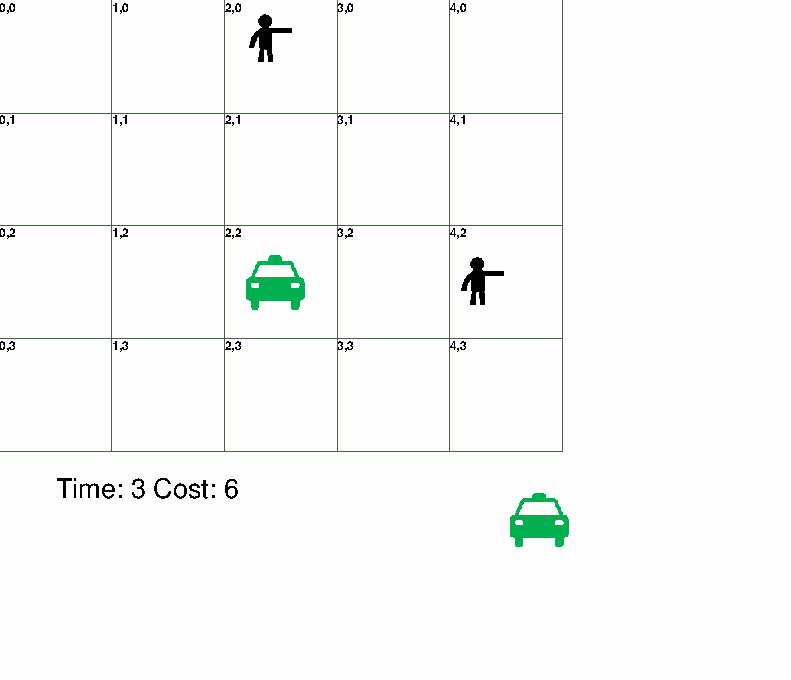
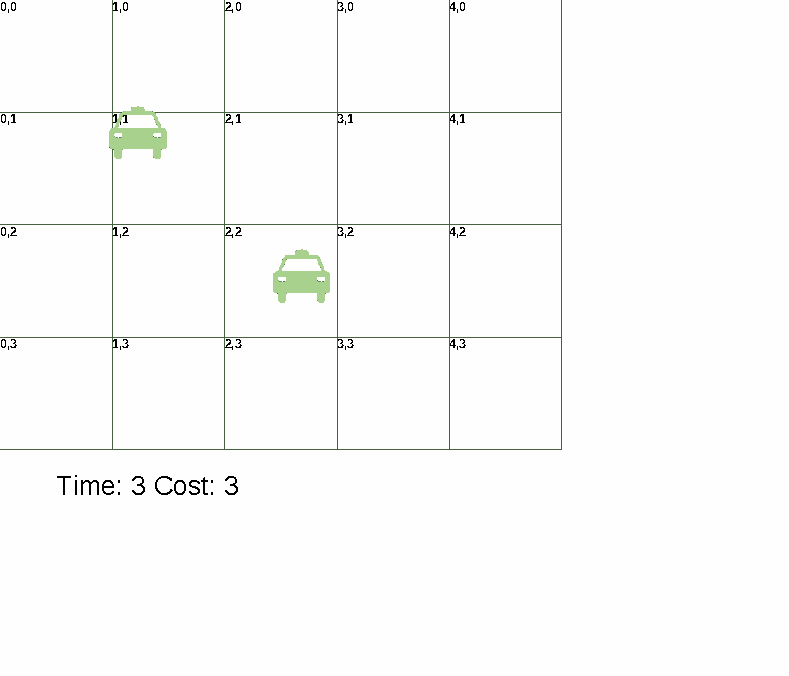
Maybe finished 4?

diff --git a/PSET4/hw4_skeleton/src/base_policy.py b/PSET4/hw4_skeleton/src/base_policy.py
@@ -23,46 +23,58 @@ class base_policy:
         elif horizontal < 0: 
             dir = 1
         elif vertical > 0:
-            dir = 3
-        elif vertical < 0:
             dir = 4
+        elif vertical < 0:
+            dir = 3
         else:
             dir = 0 
         ################################# End your code ###############################
+
         return dir
 
     def get_base_policy_control_component(self, taxi_state_object, ell):
-        control_component = None
+        control_component = 0
         # If a request's pickup location is the same as agent ell's location and the taxi is availble, return the 5+index of the request in the outstanding_requests list
         # Else if the taxi is available, return the direction of motion using the taxi ell's location and the nearest request's pickup location
         ################################# Begin your code ###############################
 
-        # ell is the index of the agent to be used in the list: agent_locations
-        ell_location = taxi_state_object.agent_locations[ell]
+        # Create variable for the index of the agent to be used in the list: agent_locations
+        ell_loc = taxi_state_object.agent_locations[ell]
+        # Create variable for time left in ell's ride and determine whether ell is available
+        time_left = taxi_state_object.time_left_in_current_trip[ell]
+        print("TIME LEFT: " + str(time_left))
+        ell_avail = True if time_left == 0 else False
 
-        manhattan_distance_lst = []
-        # print("Agent location: " + str(ell_location))
-        for count, req in enumerate(taxi_state_object.outstanding_requests):
-            pickup_location = [req[0], req[1]]
-            # print(str(count) + "th pickup location: " + str(pickup_location))
-            if ell_location == pickup_location: 
-                control_component = count + 5
-                return control_component
-            else:
-                dist = taxi_state_object.g.manhattan_distance(ell_location, pickup_location)
-                # print("dist: " + str(dist))
-                manhattan_distance_lst.append(dist)
+        if ell_avail:
+            # Create list to save Manhattan distances
+            manhattan_dists = []
 
-        print(manhattan_distance_lst)
-        if manhattan_distance_lst:
-            m = manhattan_distance_lst.index(min(manhattan_distance_lst))
-            # print("m: " + str(m))
-            nearest_req = taxi_state_object.outstanding_requests[m]
+            # Consider all outstanding requests
+            for idx, req in enumerate(taxi_state_object.outstanding_requests):
+                pickup_loc = [req[0], req[1]]
+                # print(str(count) + "th pickup location: " + str(pickup_location))
+                if ell_loc == pickup_loc:
+                    # Pickup request in ell's current location
+                    control_component = 5 + idx
+                    print("PICKIGN UP")
+                    return control_component
+                else:
+                    # Add Manhattan distance to list for future control determination
+                    dist = taxi_state_object.g.manhattan_distance(ell_loc, pickup_loc)
+                    # print("dist: " + str(dist))
+                    manhattan_dists.append(dist)
+            
+            print(manhattan_dists)
+            if manhattan_dists:
+                # Find which request is closest (index of minimum distance)
+                min_idx = manhattan_dists.index(min(manhattan_dists))
+                # print("m: " + str(m))
+                nearest_req = taxi_state_object.outstanding_requests[min_idx]
 
-            control_component = self.next_direction(ell_location, [nearest_req[0], nearest_req[1]])
-            # print("s': " + str(control_component))
+                control_component = self.next_direction(ell_loc, (nearest_req[0], nearest_req[1]))
+                # print("s': " + str(control_component))
+
+            
         ################################# End your code ###############################
-        if control_component is None:
-            return 0
         return control_component
 

diff --git a/PSET4/hw4_skeleton/src/main.py b/PSET4/hw4_skeleton/src/main.py
@@ -52,7 +52,7 @@ if __name__ == '__main__':
     s2 = state(None, 2)  # states for 2 agents. Use it in questions 5, 7, 8
     # If you want to compare trajectories given by questions 5, 7, 8, you should use the same instance of the state s2
 
-    # main_question_4(s1)
+    main_question_4(s1)
 
     main_question_5(s2)
 
